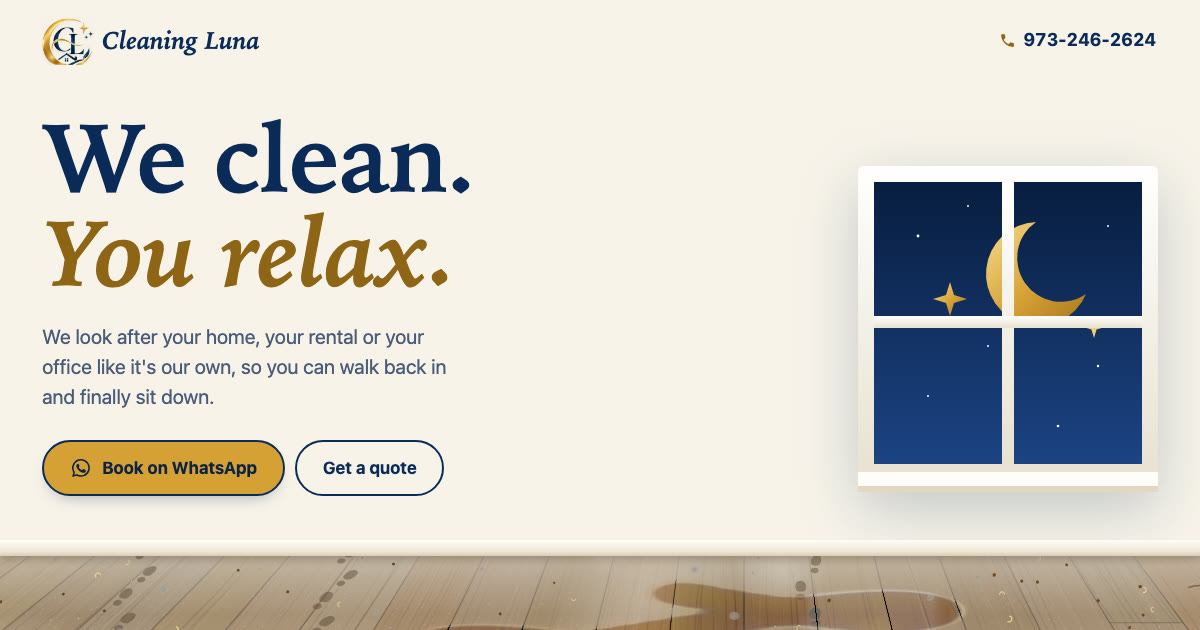
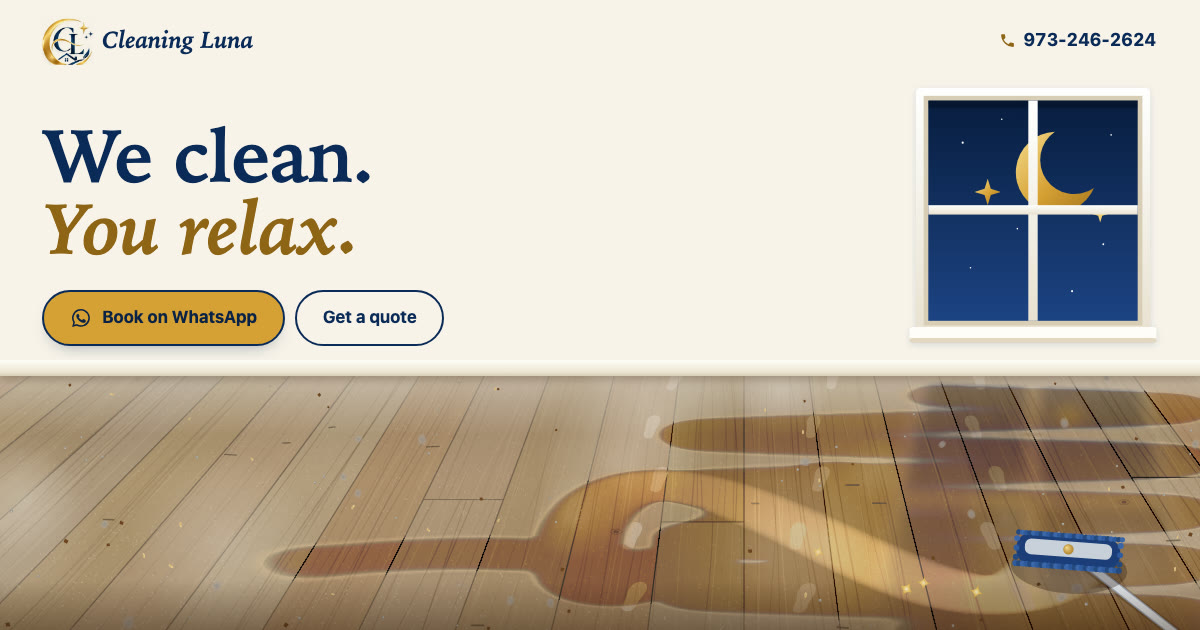
Finish-review fixes: figure-eight mop, chenille pad, dusty soles, recessed window, new preview image
Claude-Session: https://claude.ai/code/session_01HfbWT3BbS8BBzZDCEdRrQK

diff --git a/index.html b/index.html
@@ -83,7 +83,7 @@ p{margin:0;text-wrap:pretty}
 @media (min-width:1024px){
   .wall .wrap{grid-template-columns:1fr 340px;align-items:end;column-gap:48px}
   .wall-text{gap:22px}
-  .window{display:block;width:340px;margin-right:6%;filter:drop-shadow(0 18px 30px rgba(10,42,88,.22))}
+  .window{display:block;width:340px;margin-right:6%;filter:drop-shadow(0 2px 3px rgba(10,42,88,.14))}
 }
 
 /* ===== Hero: the floor ===== */
@@ -225,7 +225,9 @@ RAISES: gold reserved for clean/active states (palette law); dust creeps back at
           <linearGradient id="frame" x1="0" y1="0" x2="0" y2="1"><stop offset="0" stop-color="#ffffff"/><stop offset="1" stop-color="#e9e1d1"/></linearGradient>
         </defs>
         <rect x="0" y="0" width="300" height="314" rx="6" fill="url(#frame)"/>
+        <rect x="10" y="10" width="280" height="294" fill="#d9cdb6"/>
         <rect x="16" y="16" width="268" height="282" fill="url(#sky)"/>
+        <rect x="16" y="16" width="268" height="10" fill="#000" opacity=".22"/>
         <g fill="#fff"><circle cx="60" cy="70" r="1.4"/><circle cx="110" cy="40" r="1"/><circle cx="240" cy="200" r="1.2"/><circle cx="70" cy="230" r="1"/><circle cx="200" cy="260" r="1.3"/><circle cx="130" cy="180" r="1"/><circle cx="250" cy="60" r="1"/></g>
         <path d="M178 56a52 52 0 1 0 50 72a42 42 0 1 1-50-72z" fill="url(#goldg)"/>
         <path d="M92 116l4 13 13 4-13 4-4 13-4-13-13-4 13-4z" fill="url(#goldg)"/>
@@ -369,7 +371,7 @@ var TUNE = {
   wetFade: 0.022,                        // how fast the wet streak dries
   idleMs: 2600,                          // the mop starts mopping by itself after this much stillness
   debrisPhone: 60, debrisDesktop: 110,   // crumbs, sawdust and grit on the floor
-  sparkleChance: 0.16,                   // gold sparkles left behind the mop (per frame while mopping)
+  sparkleChance: 0.1,                   // gold sparkles left behind the mop (per frame while mopping)
   starsPhone: 34, starsDesktop: 80,      // stars in the night sections
   seamSpeed: 1.0
 };
@@ -441,6 +443,7 @@ function rand(a, b){ return a + Math.random() * (b - a); }
 (function(){
   var floorEl = document.getElementById('floor'), canvas = document.getElementById('floorCanvas'), ctx = canvas.getContext('2d', { alpha: false });
   var hint = document.getElementById('hint');
+  if (window.matchMedia('(hover:hover) and (pointer:fine)').matches) hint.lastChild.textContent = 'Move across the floor to mop it';
   var base = document.createElement('canvas'), wood = document.createElement('canvas');
   var dirt = document.createElement('canvas'), dirtSrc = document.createElement('canvas'), wet = document.createElement('canvas');
   var stamp = document.createElement('canvas');
@@ -527,8 +530,8 @@ function rand(a, b){ return a + Math.random() * (b - a); }
     var g = c.createLinearGradient(0, 0, 0, H); g.addColorStop(0, 'rgba(255,240,210,.36)'); g.addColorStop(.5, 'rgba(255,240,210,.18)'); g.addColorStop(1, 'rgba(255,240,210,.3)');
     c.fillStyle = g; c.fillRect(0, 0, W, H);
     // reflection of the moonlit window, drawn small and scaled up so it comes out soft
-    var R = document.createElement('canvas'), q = 8; R.width = Math.ceil(W / q); R.height = Math.ceil(H / q);
-    var r = R.getContext('2d'); r.scale(1 / q, 1 / q);
+    var R = document.createElement('canvas'), q = 3; R.width = Math.ceil(W / q); R.height = Math.ceil(H / q);
+    var r = R.getContext('2d'); r.scale(1 / q, 1 / q); if ('filter' in r) r.filter = 'blur(2px)';
     var wx = W * .7, ww = W * .3, win = document.querySelector('.window');
     if (win && getComputedStyle(win).display !== 'none') { var wr = win.getBoundingClientRect(), fr = floorEl.getBoundingClientRect(); wx = wr.left + wr.width / 2 - fr.left; ww = wr.width * .9; }
     var len = H * .95, x0 = wx - ww / 2, x1 = wx + ww / 2, sb = s(len) / s(0);
@@ -542,7 +545,7 @@ function rand(a, b){ return a + Math.random() * (b - a); }
     r.fillStyle = 'rgba(255,250,238,.5)'; quad(0, 1, 0, 1); r.fill();
     r.fillStyle = 'rgba(14,36,86,.55)';
     [[.05, .47, .03, .46], [.53, .95, .03, .46], [.05, .47, .52, .97], [.53, .95, .52, .97]].forEach(function(p){ quad(p[0], p[1], p[2], p[3]); r.fill(); });
-    r.fillStyle = 'rgba(242,207,116,.85)'; r.beginPath(); r.ellipse(wx + ww * .12, len * .22, ww * .1, len * .08, 0, 0, 6.29); r.fill();
+    r.fillStyle = 'rgba(242,207,116,.6)'; r.beginPath(); r.ellipse(wx + ww * .16, len * .2, ww * .06, len * .045, 0, 0, 6.29); r.fill();
     r.globalCompositeOperation = 'destination-out';
     var gl = r.createLinearGradient(0, 0, 0, len); gl.addColorStop(0, 'rgba(0,0,0,0)'); gl.addColorStop(.45, 'rgba(0,0,0,.35)'); gl.addColorStop(1, 'rgba(0,0,0,1)');
     r.fillStyle = gl; r.fillRect(0, 0, W, len + 2); r.globalCompositeOperation = 'source-over';
@@ -554,8 +557,8 @@ function rand(a, b){ return a + Math.random() * (b - a); }
 
   function shoe(c, x, y, k, ang, left){
     c.save(); c.translate(x, y); c.scale(k, k * .55); c.rotate(ang); if (left) c.scale(-1, 1);
-    c.beginPath(); c.moveTo(-5, -4); c.bezierCurveTo(-7, -16, -3, -24, 2, -24); c.bezierCurveTo(8, -24, 9, -14, 7, -4); c.bezierCurveTo(6, 2, -4, 2, -5, -4); c.fill();
-    c.beginPath(); c.ellipse(1, 12, 5.2, 6.5, 0, 0, 6.29); c.fill();
+    c.beginPath(); c.moveTo(1, -24); c.bezierCurveTo(8, -24, 9, -12, 7, -3); c.bezierCurveTo(5.5, 4, 6.5, 10, 5.5, 15);
+    c.bezierCurveTo(4.5, 20, -3, 20, -4, 15); c.bezierCurveTo(-5, 9, -3.5, 3, -5, -4); c.bezierCurveTo(-7, -15, -4, -24, 1, -24); c.fill();
     c.restore();
   }
   function paintDirt(){
@@ -570,18 +573,18 @@ function rand(a, b){ return a + Math.random() * (b - a); }
     // plaster dust along the wall, from the job-site work
     var pg = c.createLinearGradient(0, 0, 0, H * .25); pg.addColorStop(0, 'rgba(240,236,228,.6)'); pg.addColorStop(1, 'rgba(240,236,228,0)'); c.fillStyle = pg; c.fillRect(0, 0, W, H * .25);
     // tracked-in footprints
-    c.fillStyle = 'rgba(70,50,32,.3)';
+    c.fillStyle = 'rgba(228,218,204,.4)';
     for (var t = 0; t < (PHONE ? 2 : 3); t++) {
       var fx = rnd() * W, fy = H * (.95 + rnd() * .1), dir = -Math.PI / 2 + (rnd() - .5) * 1.1, step = 0;
-      while (fy > 8 && step < 14) {
+      while (fy > 8 && step < 8) {
         var k = s(fy), side = step % 2 ? 1 : -1, nx = Math.cos(dir + Math.PI / 2) * 9 * side * k;
         shoe(c, fx + nx, fy, k * 1.4, dir + Math.PI / 2, side < 0);
-        fx += Math.cos(dir) * 40 * k; fy += Math.sin(dir) * 40 * k * 1.1; dir += (rnd() - .5) * .18; step++;
+        fx += Math.cos(dir) * 62 * k; fy += Math.sin(dir) * 62 * k * 1.1; dir += (rnd() - .5) * .18; step++;
       }
     }
     // black heel scuffs
     c.strokeStyle = 'rgba(30,22,16,.4)'; c.lineCap = 'round';
-    for (var m = 0; m < (PHONE ? 6 : 12); m++) { var sx = rnd() * W, sy = H * (.15 + rnd() * .85), sk = s(sy); c.lineWidth = 2.2 * sk; c.beginPath(); c.moveTo(sx, sy); c.quadraticCurveTo(sx + 10 * sk, sy - 4 * sk, sx + (16 + rnd() * 14) * sk, sy + (rnd() - .5) * 6 * sk); c.stroke(); }
+    for (var m = 0; m < (PHONE ? 6 : 12); m++) { var sx = rnd() * W, sy = H * (.15 + rnd() * .85), sk = s(sy); c.lineWidth = 1.8 * sk; c.beginPath(); c.moveTo(sx, sy); c.lineTo(sx + (8 + rnd() * 9) * sk, sy + (rnd() - .5) * 3 * sk); c.stroke(); }
     // the stamp: a soft-edged pad print
     stamp.width = 64; stamp.height = 64; var st = stamp.getContext('2d'), sg = st.createRadialGradient(32, 32, 0, 32, 32, 32);
     sg.addColorStop(0, 'rgba(0,0,0,1)'); sg.addColorStop(.6, 'rgba(0,0,0,.85)'); sg.addColorStop(1, 'rgba(0,0,0,0)'); st.fillStyle = sg; st.fillRect(0, 0, 64, 64);
@@ -629,8 +632,11 @@ function rand(a, b){ return a + Math.random() * (b - a); }
     ctx.fillStyle = 'rgba(30,15,5,.32)'; ctx.beginPath(); ctx.ellipse(2 * dpr, ph * .55, pw * .56, ph * .8, 0, 0, 6.29); ctx.fill();
     ctx.fillStyle = '#1b3d78'; ctx.beginPath(); ctx.roundRect ? ctx.roundRect(-pw / 2, -ph / 2, pw, ph, ph * .45) : ctx.rect(-pw / 2, -ph / 2, pw, ph); ctx.fill();
     ctx.strokeStyle = '#2f5a9e'; ctx.lineWidth = 1.1 * dpr;
-    for (var i = 0; i <= 40; i++) { var fx = -pw / 2 + pw * i / 40, j1 = ((i * 7) % 5) / 5; ctx.beginPath(); ctx.moveTo(fx, ph / 2 - 2 * dpr); ctx.lineTo(fx + (j1 - .5) * 3 * dpr, ph / 2 + (2 + 3 * j1) * dpr * k); ctx.stroke(); ctx.beginPath(); ctx.moveTo(fx, -ph / 2 + 2 * dpr); ctx.lineTo(fx - (j1 - .5) * 3 * dpr, -ph / 2 - (1.5 + 2.5 * j1) * dpr * k); ctx.stroke(); }
-    for (var e = -1; e <= 1; e += 2) { ctx.beginPath(); ctx.ellipse(e * pw / 2, 0, 3 * dpr * k, ph * .5, 0, 0, 6.29); ctx.fillStyle = '#2f5a9e'; ctx.fill(); }
+    var lr = Math.max(2, 3.4 * dpr * k), cols = ['#2f5a9e', '#24497f', '#3a66aa'];
+    for (var i = 0, nL = Math.ceil(pw / (lr * 1.3)); i <= nL; i++) { var fx = -pw / 2 + pw * i / nL;
+      ctx.fillStyle = cols[i % 3]; ctx.beginPath(); ctx.arc(fx, ph / 2, lr, 0, 6.29); ctx.fill();
+      ctx.fillStyle = cols[(i + 1) % 3]; ctx.beginPath(); ctx.arc(fx + lr * .4, -ph / 2, lr * .9, 0, 6.29); ctx.fill(); }
+    for (var e = -1; e <= 1; e += 2) for (var j = -1; j <= 1; j++) { ctx.fillStyle = cols[(j + 3) % 3]; ctx.beginPath(); ctx.arc(e * pw / 2, j * ph * .3, lr, 0, 6.29); ctx.fill(); }
     ctx.fillStyle = '#c9d0db'; ctx.beginPath(); ctx.roundRect ? ctx.roundRect(-pw * .42, -ph * .32, pw * .84, ph * .5, ph * .2) : ctx.rect(-pw * .42, -ph * .32, pw * .84, ph * .5); ctx.fill();
     var jg = ctx.createRadialGradient(-2 * dpr, -4 * dpr, 0, 0, -2 * dpr, 7 * dpr * k); jg.addColorStop(0, '#f6dc8e'); jg.addColorStop(1, '#a8761f');
     ctx.fillStyle = jg; ctx.beginPath(); ctx.arc(0, -2 * dpr, 6 * dpr * k, 0, 6.29); ctx.fill();
@@ -640,28 +646,27 @@ function rand(a, b){ return a + Math.random() * (b - a); }
   function draw(){
     ctx.setTransform(1, 0, 0, 1, 0, 0); ctx.clearRect(0, 0, canvas.width, canvas.height);
     ctx.drawImage(base, 0, 0);
-    // wet streak: a fresh sheen where the mop just passed, drying off
-    if (performance.now() - wetT < 4000) { ctx.save(); ctx.globalCompositeOperation = 'screen'; ctx.drawImage(wetLayer(), 0, 0); ctx.restore(); }
+    // wet streak: the just-mopped wood is a shade darker until it dries
+    if (performance.now() - wetT < 4000) { ctx.save(); ctx.globalCompositeOperation = 'multiply'; ctx.globalAlpha = .35; ctx.drawImage(wetLayer(), 0, 0); ctx.restore(); }
     ctx.drawImage(dirt, 0, 0);
     for (var i = 0; i < debris.length; i++) if (debris[i].a > 0) drawBit(debris[i]);
     for (var j = 0; j < sparks.length; j++) { var sp = sparks[j], u = sp.t / sp.life, a = Math.sin(u * Math.PI); sparkle(ctx, sp.x * dpr, sp.y * dpr, sp.r * dpr * (.5 + .5 * a), a, sp.rot + u * .6); }
     if (mop.t >= 0) drawMop();
   }
   var tintC = document.createElement('canvas');
-  function wetLayer(){ // the wet mask recolored warm white, laid on with screen so the just-mopped wood shines
+  function wetLayer(){ // the wet mask recolored warm brown, laid on with multiply
     if (tintC.width !== wet.width || tintC.height !== wet.height) { tintC.width = wet.width; tintC.height = wet.height; }
     var c = tintC.getContext('2d');
     c.globalCompositeOperation = 'copy'; c.drawImage(wet, 0, 0);
-    c.globalCompositeOperation = 'source-in'; c.fillStyle = 'rgb(255,246,228)'; c.fillRect(0, 0, tintC.width, tintC.height);
+    c.globalCompositeOperation = 'source-in'; c.fillStyle = 'rgb(120,80,45)'; c.fillRect(0, 0, tintC.width, tintC.height);
     c.globalCompositeOperation = 'source-over';
     return tintC;
   }
 
-  var auto = { tx: 0, ty: 0, until: 0, n: 0, on: false };
-  function nextTarget(now){
-    auto.n++;
-    var band = H * (.3 + .45 * (.5 + .5 * Math.sin(auto.n * .45)));
-    auto.tx = (auto.n % 2 ? .12 : .88) * W + rand(-.06, .06) * W; auto.ty = band + rand(-.08, .08) * H; auto.until = now + 900;
+  var auto = { tx: 0, ty: 0, until: 0, n: 0, on: false, t: 0 };
+  function nextTarget(now){ // a mopper's figure-eight, drifting slowly across the room
+    var t = auto.t, x0 = W * (.5 + .3 * Math.sin(t * .11)), y0 = H * (.55 + .12 * Math.sin(t * .07));
+    auto.tx = x0 + W * (PHONE ? .3 : .17) * Math.sin(t); auto.ty = y0 + H * .2 * Math.sin(2 * t); auto.until = now;
   }
   var lastWipe = null;
   function mopTo(x, y, dt, follow){
@@ -714,8 +719,8 @@ function rand(a, b){ return a + Math.random() * (b - a); }
         if (!mopped) { mopped = true; hint.classList.add('gone'); }
       } else if (now - P.user > TUNE.idleMs || P.user === 0) {
         if (!auto.on) { auto.on = true; if (mop.t < 0) { mop.x = W * .2; mop.y = H * .7; } lastWipe = null; nextTarget(now); }
-        if (now > auto.until) nextTarget(now);
-        mopTo(auto.tx, auto.ty, dt, 3.2); mop.t = now;
+        auto.t += dt * 1.6; nextTarget(now);
+        mopTo(auto.tx, auto.ty, dt, 6); mop.t = now;
       } else { lastWipe = null; }
       pushDebris(dt);
       var dc = dirt.getContext('2d'); dc.globalAlpha = TUNE.regrow; dc.drawImage(dirtSrc, 0, 0); dc.globalAlpha = 1;
